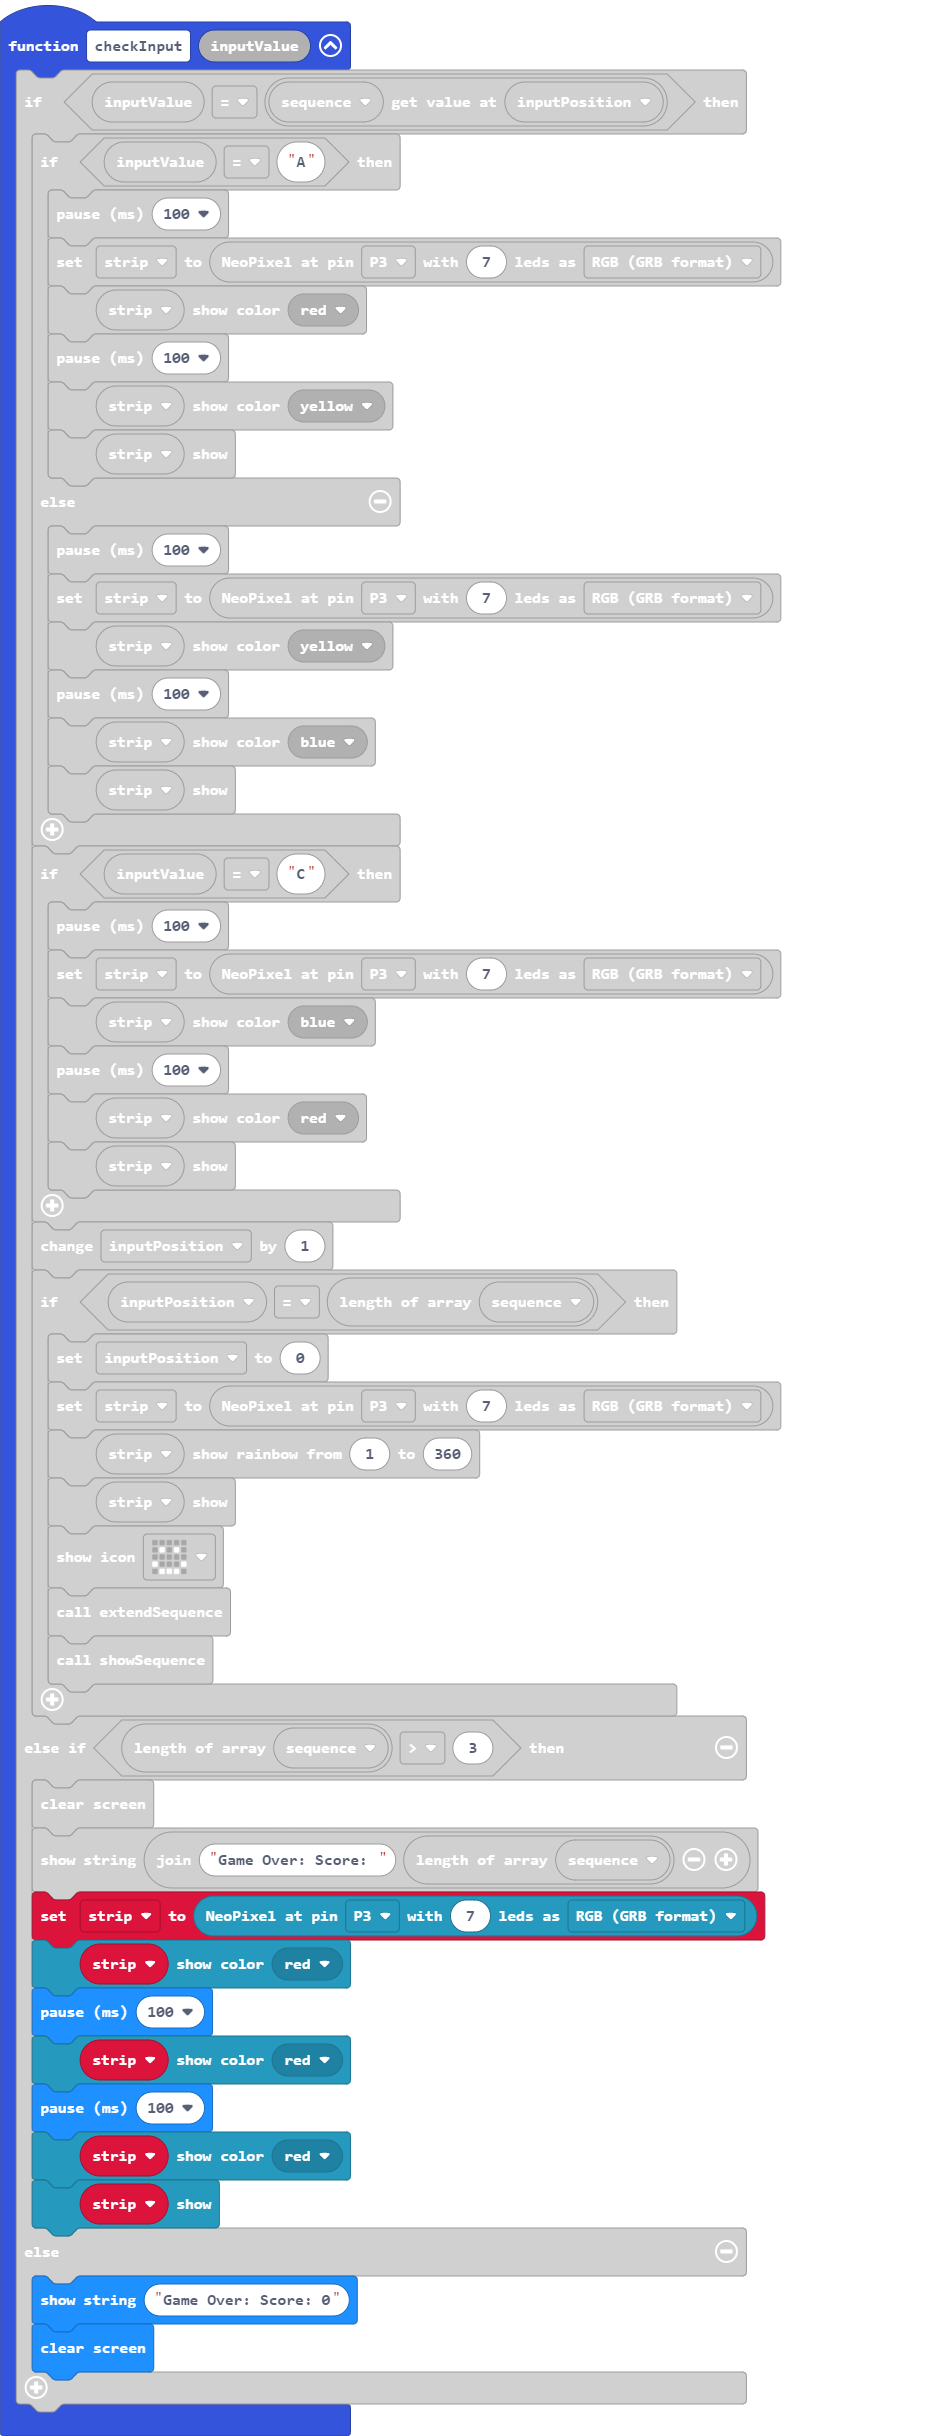
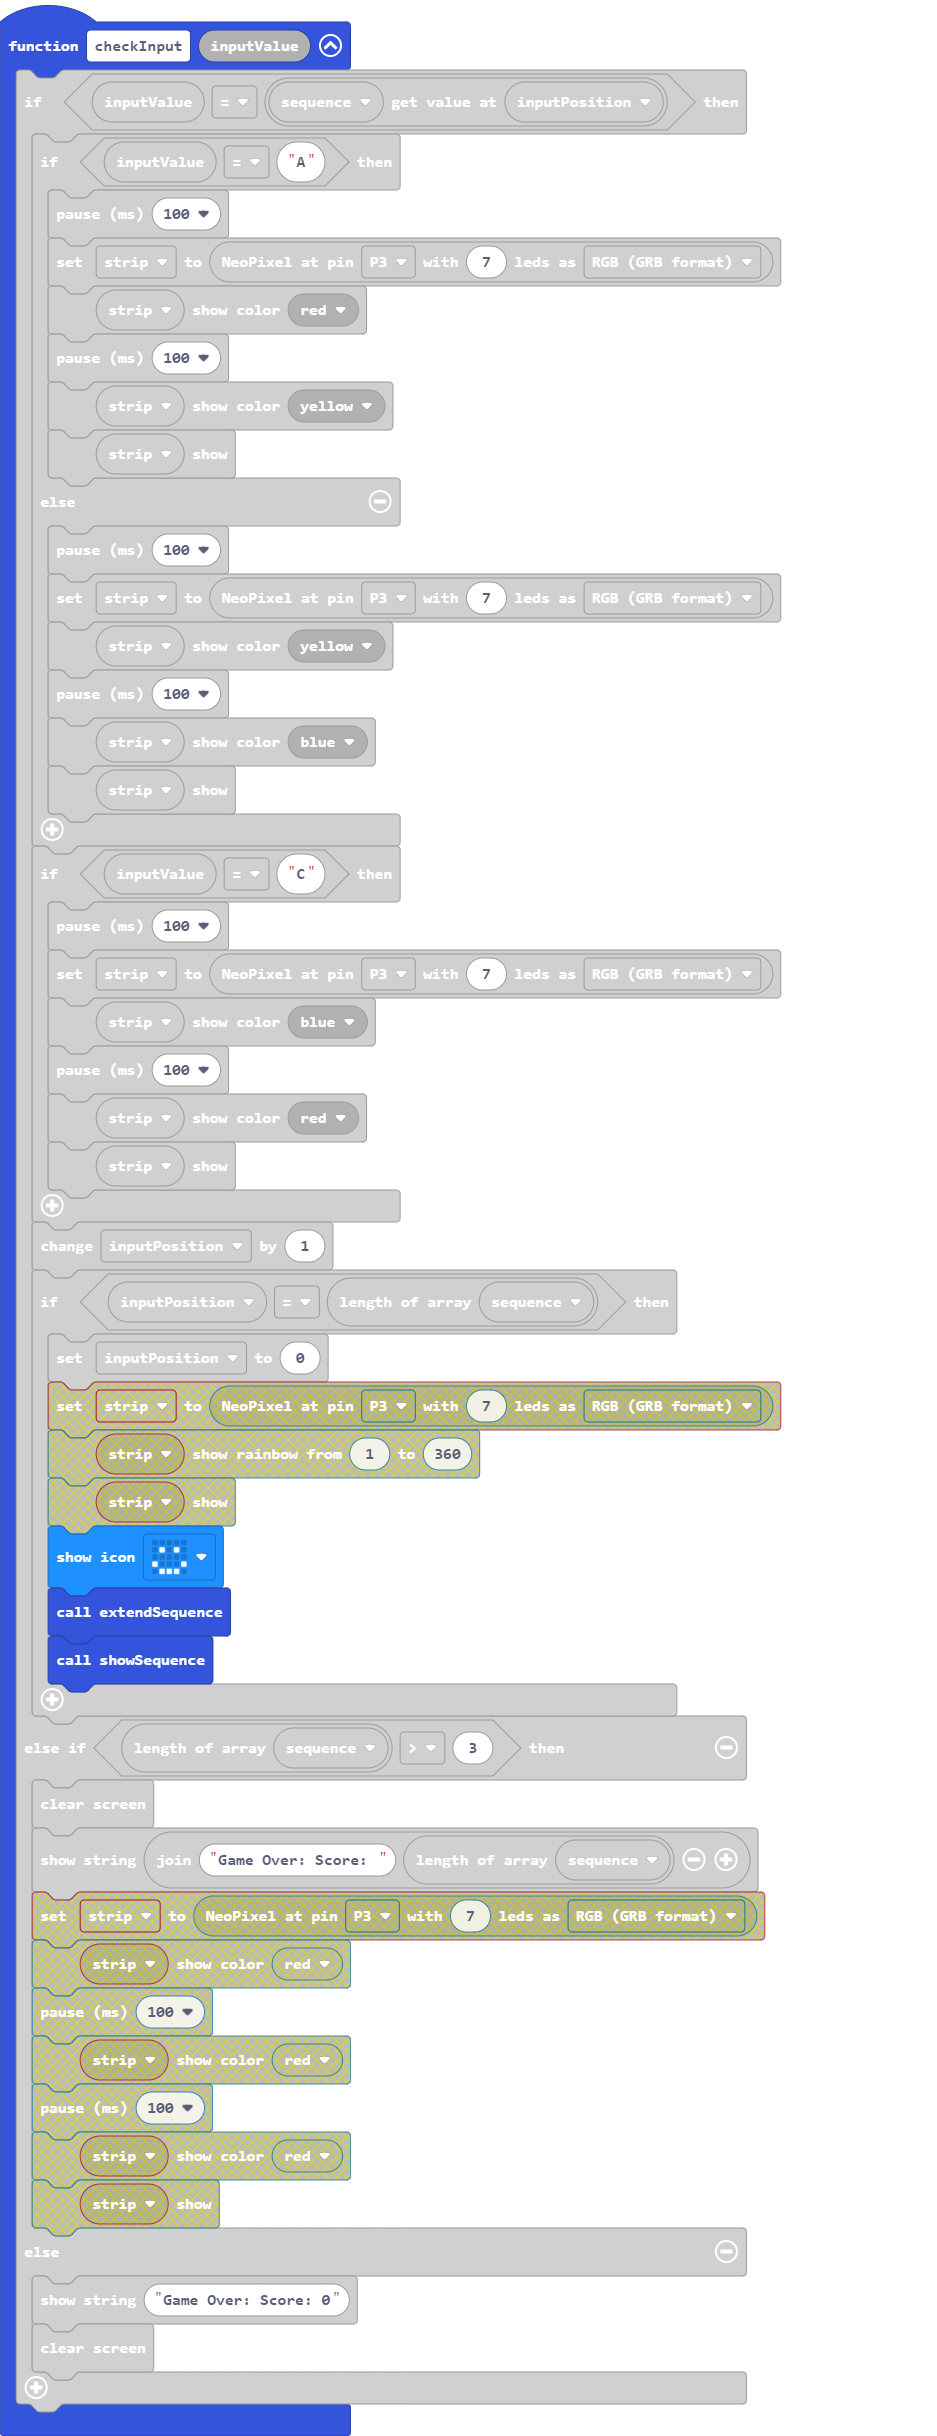
Update main.blocks, main.ts

Changed region(s): [[0.0309, 0.7488, 0.8356, 0.9984], [0.0309, 0.5616, 0.8356, 0.7176]]

diff --git a/main.ts b/main.ts
@@ -26,9 +26,6 @@ function checkInput (inputValue: string) {
         inputPosition += 1
         if (inputPosition == sequence.length) {
             inputPosition = 0
-            strip = neopixel.create(DigitalPin.P3, 7, NeoPixelMode.RGB)
-            strip.showRainbow(1, 360)
-            strip.show()
             basic.showIcon(IconNames.Happy)
             extendSequence()
             showSequence()
@@ -36,13 +33,6 @@ function checkInput (inputValue: string) {
     } else if (sequence.length > 3) {
         basic.clearScreen()
         basic.showString("Game Over: Score: " + sequence.length)
-        strip = neopixel.create(DigitalPin.P3, 7, NeoPixelMode.RGB)
-        strip.showColor(neopixel.colors(NeoPixelColors.Red))
-        basic.pause(100)
-        strip.showColor(neopixel.colors(NeoPixelColors.Red))
-        basic.pause(100)
-        strip.showColor(neopixel.colors(NeoPixelColors.Red))
-        strip.show()
     } else {
         basic.showString("Game Over: Score: 0")
         basic.clearScreen()
